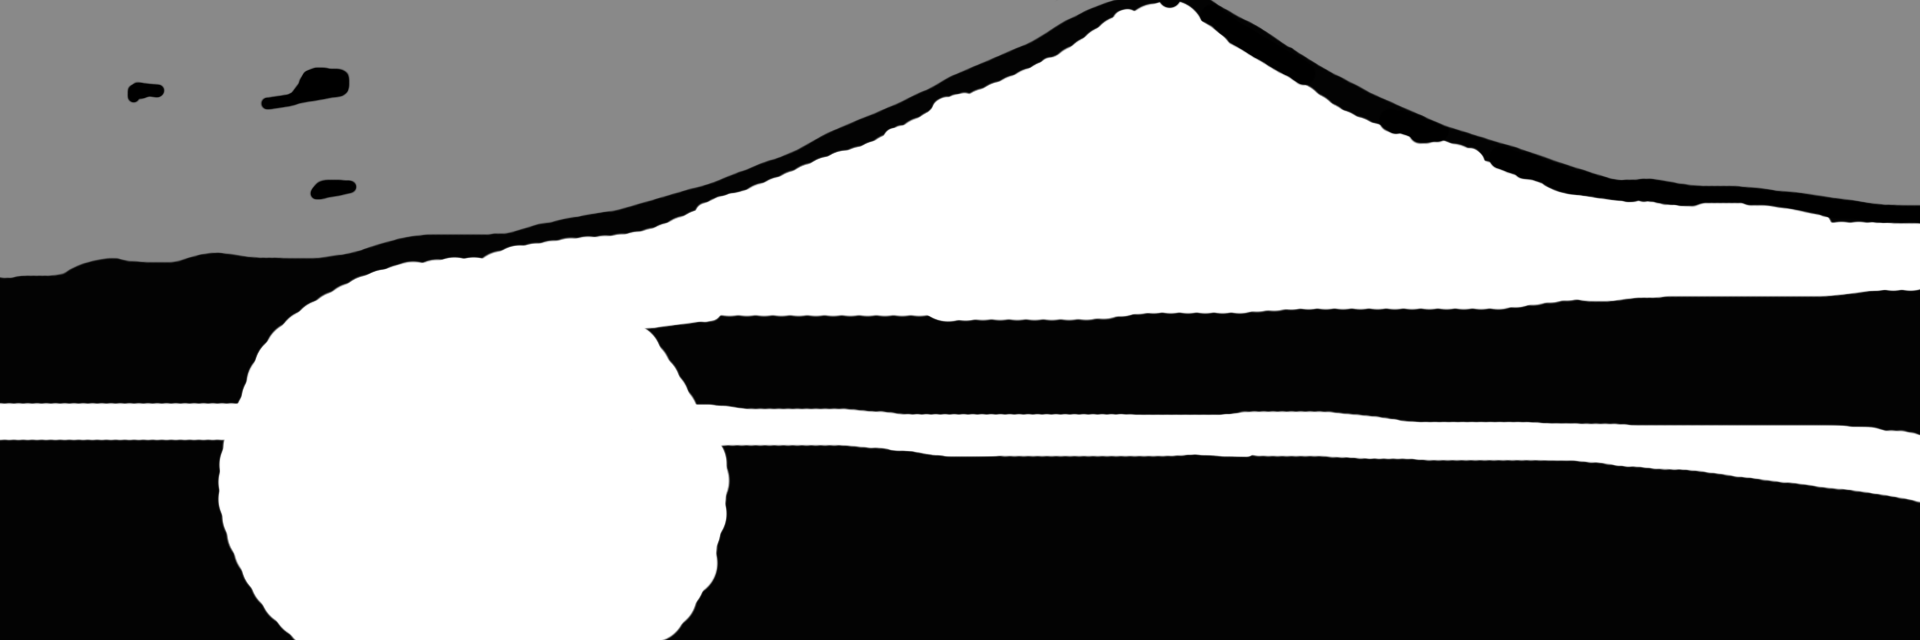
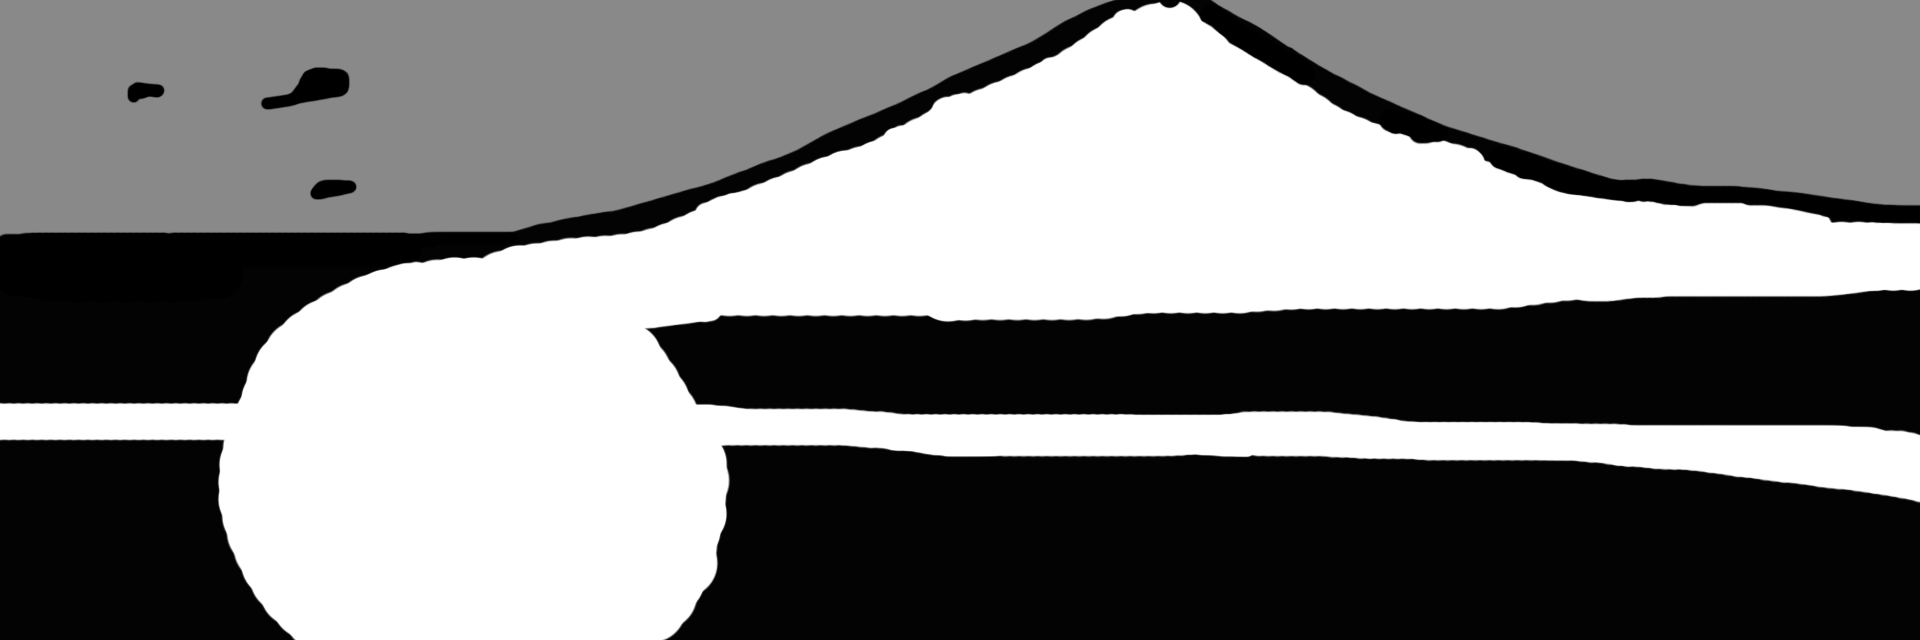
Changed mask to get rid of yellow

Changed region(s): [[0.0, 0.3438, 0.25, 0.4375]]

diff --git a/README.md b/README.md
@@ -1,5 +1,5 @@
 ## Creative Coding 2: Custom Pixel
 
-I tried playing around with the colours in the grey area of the mask. I changed the blue value for when red is less than blue to a lower number to mute the colours more. I actually really like how this effect turned out in the 3rd picture with the grass. However, unfortunately it made the sky yellow in the 1st picture which I really did not like. If I want to keep this effect I will go back into the mask for the 1st picture and make that area of the sky to black or white so that it is not within the if statement to change the colours.
+I tried playing around with the colours in the grey area of the mask. I changed the blue value for when red is less than blue to a lower number to mute the colours more. I actually really like how this effect turned out in the 3rd picture with the grass. As there were already a lot of bright colours in the picture, it allowed the other aspects to stand out more as they are brighter and your eye is drawn to them rather than the grass. However, unfortunately it made the sky yellow in the 1st picture which I really did not like. I had to go back into the mask for this image and cover that area in black so that it did not get caught in the if statement. 
 
 The images above are photos from around my farm and the area I live in algorithmically processed with a lightly modified version of the [p5.js Pointillism example](https://p5js.org/examples/image-pointillism.html). The masks for each photo highlight various objects.
